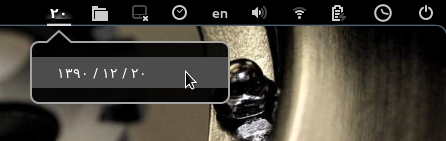
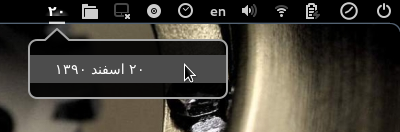
separate PersianDate class && add persian support for strings!

diff --git a/extension.js b/extension.js
@@ -4,7 +4,9 @@ const PopupMenu = imports.ui.popupMenu;
 const PanelMenu = imports.ui.panelMenu;
 const MainLoop = imports.mainloop;
 
-//const PersianDate = pcalendar.persian_calendar.PersianDate;
+const Extension = imports.ui.extensionSystem.extensions["PersianCalendar@oxygenws.com"];
+
+const PersianDate = Extension.PersianDate.PersianDate;
 
 function PopupMenuItem(label) {
     this._init(label);
@@ -16,175 +18,118 @@ PopupMenuItem.prototype = {
     _init: function(text) {
         PopupMenu.PopupBaseMenuItem.prototype._init.call(this);
 
-        this.label = new St.Label({ text: text });
-        this.label.set_direction(St.TextDirection.RTL);
+        this.label = new St.Label({ text: text, style: 'direction: rtl;' });
+        this.label.set_direction(St.TextDirection.RTL); // it should be RTL, but it is not RTL!!
         this.addActor(this.label);
     }
 };
 
-function PCalendar() {
+function PersianCalendar() {
     this._init();
 }
 
-PCalendar.prototype = {
+PersianCalendar.prototype = {
     __proto__: PanelMenu.Button.prototype,
 
     _init: function() {
         PanelMenu.Button.prototype._init.call(this, 0.0);
-        
-        var _date = new Date();
-        _date = PersianDate.gregorianToPersian(_date.getFullYear(),_date.getMonth()+1,_date.getDate());
-        var _day = _date[2] + '';
-        //_date = _date[0] + '/' + PersianDate.p_month_names[_date[1]-1] + '/' + _date[2];
-        _date = _date[0] + ' / ' + _date[1] + ' / ' + _date[2];
 
-        this.label = new St.Label({ text: toFaDigit(_day) });
-        this.label.set_direction(St.TextDirection.RTL);
+        this.label = new St.Label({ text: '', style: 'direction: rtl' });
+        this.label.set_direction(St.TextDirection.RTL); // it should be RTL, but it is not RTL!!
         this.actor.add_actor(this.label);
 
-        this._date = new PopupMenuItem(toFaDigit(_date));
+        this._date = new PopupMenuItem('');
         this.menu.addMenuItem(this._date);
     },
 
     _updateDate: function() {
 		var _date = new Date();
         _date = PersianDate.gregorianToPersian(_date.getFullYear(),_date.getMonth()+1,_date.getDate());
-        var _day = _date[2] + '';
-        _date = _date[0] + ' / ' + _date[1] + ' / ' + _date[2];
+        var _day = strFormat(_date[2] + '');
+        _date = strFormat(_date[2] + ' ' + PersianDate.p_month_names[_date[1]-1] + ' ' + _date[0]);
 
-		_indicator.label.set_text(toFaDigit(_day));
-		_indicator._date.label.set_text(toFaDigit(_date));
+		_indicator.label.set_text(_day);
+		_indicator._date.label.set_text(_date);
 		
 		return true;
 	}
 };
 
-function toFaDigit (digit) {
-	return digit.replace(/\d+/g, function(digit) {
-		var ret = '';
-
-		for (var i = 0, len = digit.length; i < len; i++) {
-			ret += String.fromCharCode(digit.charCodeAt(i) + 1728);
-		}
-
-		return ret;
-	});
+function strFormat(str, convert_numbers) {
+	if(!convert_numbers){
+		convert_numbers = true;
+	}
+	
+	var enums   = ['0', '1', '2', '3', '4', '5', '6', '7', '8', '9'];
+	var pnums   = ['۰', '۱', '۲', '۳', '۴', '۵', '۶', '۷', '۸', '۹'];
+	
+	var ncodes = ['\u06F0', '\u06F1', '\u06F2', '\u06F3', '\u06F4',
+	              '\u06F5', '\u06F6', '\u06F7', '\u06F8', '\u06F9'];
+				  
+	var chars = ['آ', 'ا', 'ب', 'پ', 'ت', 'ث', 'ج', 'چ', 'ح', 'خ', 'د',
+				 'ذ', 'ر', 'ز', 'ژ', 'س', 'ش', 'ص', 'ض', 'ط', 'ظ', 'ع',
+				 'غ', 'ف', 'ق', 'ک', 'گ', 'ل', 'م', 'ن', 'و', 'ه', 'ی'];
+	
+	var ccodes = ['\u0622', '\u0627', '\u0628', '\u067E', '\u062A',
+		 		  '\u062B', '\u062C', '\u0686', '\u062D', '\u062E',
+				  '\u062F', '\u0630', '\u0631', '\u0632', '\u0698',
+				  '\u0633', '\u0634', '\u0635', '\u0636', '\u0637',
+				  '\u0638', '\u0639', '\u063A', '\u0641', '\u0642',
+				  '\u06A9', '\u06AF', '\u0644', '\u0645', '\u0646',
+				  '\u0648', '\u0647', '\u0649'];
+				  
+	if(convert_numbers){
+		str = str_replace(enums, ncodes, str);
+		str = str_replace(pnums, ncodes, str);
+	}
+	
+	return str_replace(chars, ccodes, str);
 }
 
-let PersianDate = {
-    g_days_in_month: [31, 28, 31, 30, 31, 30, 31, 31, 30, 31, 30, 31],
-    p_days_in_month: [31, 31, 31, 31, 31, 31, 30, 30, 30, 30, 30, 29],
-    p_month_names: ['فروردین', 'اردیبهشت', 'خرداد', 'تیر', 'مرداد', 'شهریور', 'مهر', 'آبان', 'آذر', 'دی', 'بهمن', 'اسفند']
-};
-
-PersianDate.persianToGregorian = function(p_y, p_m, p_d)
-{
-    p_y = parseInt(p_y);
-    p_m = parseInt(p_m);
-    p_d = parseInt(p_d);
-    var py = p_y-979;
-    var pm = p_m-1;
-    var pd = p_d-1;
-
-    var p_day_no = 365*py + parseInt(py / 33)*8 + parseInt((py%33+3) / 4);
-    for (var i=0; i < pm; ++i) p_day_no += PersianDate.p_days_in_month[i];
-
-    p_day_no += pd;
-
-    var g_day_no = p_day_no+79;
-
-    var gy = 1600 + 400 * parseInt(g_day_no / 146097); /* 146097 = 365*400 + 400/4 - 400/100 + 400/400 */
-    g_day_no = g_day_no % 146097;
-
-    var leap = true;
-    if (g_day_no >= 36525) /* 36525 = 365*100 + 100/4 */
-    {
-        g_day_no--;
-        gy += 100*parseInt(g_day_no/  36524); /* 36524 = 365*100 + 100/4 - 100/100 */
-        g_day_no = g_day_no % 36524;
-
-        if (g_day_no >= 365)
-            g_day_no++;
-        else
-            leap = false;
+/* copied from http://phpjs.org/functions/str_replace */
+function str_replace (search, replace, subject, count) {
+    var i = 0,
+        j = 0,
+        temp = '',
+        repl = '',
+        sl = 0,
+        fl = 0,
+        f = [].concat(search),
+        r = [].concat(replace),
+        s = subject,
+        ra = Object.prototype.toString.call(r) === '[object Array]',
+        sa = Object.prototype.toString.call(s) === '[object Array]';
+    s = [].concat(s);
+    if (count) {
+        this.window[count] = 0;
     }
 
-    gy += 4*parseInt(g_day_no/ 1461); /* 1461 = 365*4 + 4/4 */
-    g_day_no %= 1461;
-
-    if (g_day_no >= 366) {
-        leap = false;
-
-        g_day_no--;
-        gy += parseInt(g_day_no/ 365);
-        g_day_no = g_day_no % 365;
+    for (i = 0, sl = s.length; i < sl; i++) {
+        if (s[i] === '') {
+            continue;
+        }
+        for (j = 0, fl = f.length; j < fl; j++) {
+            temp = s[i] + '';
+            repl = ra ? (r[j] !== undefined ? r[j] : '') : r[0];
+            s[i] = (temp).split(f[j]).join(repl);
+            if (count && s[i] !== temp) {
+                this.window[count] += (temp.length - s[i].length) / f[j].length;
+            }
+        }
     }
-
-    for (var i = 0; g_day_no >= PersianDate.g_days_in_month[i] + (i == 1 && leap); i++)
-        g_day_no -= PersianDate.g_days_in_month[i] + (i == 1 && leap);
-    var gm = i+1;
-    var gd = g_day_no+1;
-
-    return [gy, gm, gd];
-}
-
-PersianDate.checkDate = function(p_y, p_m, p_d)
-{
-    return !(p_y < 0 || p_y > 32767 || p_m < 1 || p_m > 12 || p_d < 1 || p_d >
-        (PersianDate.p_days_in_month[p_m-1] + (p_m == 12 && !((p_y-979)%33%4))));
-}
-
-PersianDate.gregorianToPersian = function(g_y, g_m, g_d)
-{
-    g_y = parseInt(g_y);
-    g_m = parseInt(g_m);
-    g_d = parseInt(g_d);
-    var gy = g_y-1600;
-    var gm = g_m-1;
-    var gd = g_d-1;
-
-    var g_day_no = 365*gy+parseInt((gy+3) / 4)-parseInt((gy+99)/100)+parseInt((gy+399)/400);
-
-    for (var i=0; i < gm; ++i)
-    g_day_no += PersianDate.g_days_in_month[i];
-    if (gm>1 && ((gy%4==0 && gy%100!=0) || (gy%400==0)))
-    /* leap and after Feb */
-    ++g_day_no;
-    g_day_no += gd;
-
-    var p_day_no = g_day_no-79;
-
-    var p_np = parseInt(p_day_no/ 12053);
-    p_day_no %= 12053;
-
-    var py = 979+33*p_np+4*parseInt(p_day_no/1461);
-
-    p_day_no %= 1461;
-
-    if (p_day_no >= 366) {
-        py += parseInt((p_day_no-1)/ 365);
-        p_day_no = (p_day_no-1)%365;
-    }
-
-    for (var i = 0; i < 11 && p_day_no >= PersianDate.p_days_in_month[i]; ++i) {
-        p_day_no -= PersianDate.p_days_in_month[i];
-    }
-    var pm = i+1;
-    var pd = p_day_no+1;
-
-
-    return [py, pm, pd];
-}
-
-function init(metadata) {
+    return sa ? s : s[0];
 }
 
 let _indicator;
 let _timer;
 
+function init(metadata) {
+}
+
 function enable() {
-  _indicator = new PCalendar;
+  _indicator = new PersianCalendar;
   Main.panel.addToStatusArea('persian_calendar', _indicator);
+  _indicator._updateDate();
   _timer = MainLoop.timeout_add(300000, _indicator._updateDate);
 }
 

diff --git a/PersianDate.js b/PersianDate.js
@@ -1,0 +1,108 @@
+/* 
+ * Based on a code from http://farhadi.ir
+ */
+ 
+ let PersianDate = {
+    g_days_in_month: [31, 28, 31, 30, 31, 30, 31, 31, 30, 31, 30, 31],
+    p_days_in_month: [31, 31, 31, 31, 31, 31, 30, 30, 30, 30, 30, 29],
+    p_month_names: ['فروردین', 'اردیبهشت', 'خرداد', 'تیر', 'مرداد', 'شهریور', 'مهر', 'آبان', 'آذر', 'دی', 'بهمن', 'اسفند']
+};
+
+PersianDate.persianToGregorian = function(p_y, p_m, p_d)
+{
+    p_y = parseInt(p_y);
+    p_m = parseInt(p_m);
+    p_d = parseInt(p_d);
+    var py = p_y-979;
+    var pm = p_m-1;
+    var pd = p_d-1;
+
+    var p_day_no = 365*py + parseInt(py / 33)*8 + parseInt((py%33+3) / 4);
+    for (var i=0; i < pm; ++i) p_day_no += PersianDate.p_days_in_month[i];
+
+    p_day_no += pd;
+
+    var g_day_no = p_day_no+79;
+
+    var gy = 1600 + 400 * parseInt(g_day_no / 146097); /* 146097 = 365*400 + 400/4 - 400/100 + 400/400 */
+    g_day_no = g_day_no % 146097;
+
+    var leap = true;
+    if (g_day_no >= 36525) /* 36525 = 365*100 + 100/4 */
+    {
+        g_day_no--;
+        gy += 100*parseInt(g_day_no/  36524); /* 36524 = 365*100 + 100/4 - 100/100 */
+        g_day_no = g_day_no % 36524;
+
+        if (g_day_no >= 365)
+            g_day_no++;
+        else
+            leap = false;
+    }
+
+    gy += 4*parseInt(g_day_no/ 1461); /* 1461 = 365*4 + 4/4 */
+    g_day_no %= 1461;
+
+    if (g_day_no >= 366) {
+        leap = false;
+
+        g_day_no--;
+        gy += parseInt(g_day_no/ 365);
+        g_day_no = g_day_no % 365;
+    }
+
+    for (var i = 0; g_day_no >= PersianDate.g_days_in_month[i] + (i == 1 && leap); i++)
+        g_day_no -= PersianDate.g_days_in_month[i] + (i == 1 && leap);
+    var gm = i+1;
+    var gd = g_day_no+1;
+
+    return [gy, gm, gd];
+}
+
+PersianDate.checkDate = function(p_y, p_m, p_d)
+{
+    return !(p_y < 0 || p_y > 32767 || p_m < 1 || p_m > 12 || p_d < 1 || p_d >
+        (PersianDate.p_days_in_month[p_m-1] + (p_m == 12 && !((p_y-979)%33%4))));
+}
+
+PersianDate.gregorianToPersian = function(g_y, g_m, g_d)
+{
+    g_y = parseInt(g_y);
+    g_m = parseInt(g_m);
+    g_d = parseInt(g_d);
+    var gy = g_y-1600;
+    var gm = g_m-1;
+    var gd = g_d-1;
+
+    var g_day_no = 365*gy+parseInt((gy+3) / 4)-parseInt((gy+99)/100)+parseInt((gy+399)/400);
+
+    for (var i=0; i < gm; ++i)
+    g_day_no += PersianDate.g_days_in_month[i];
+    if (gm>1 && ((gy%4==0 && gy%100!=0) || (gy%400==0)))
+    /* leap and after Feb */
+    ++g_day_no;
+    g_day_no += gd;
+
+    var p_day_no = g_day_no-79;
+
+    var p_np = parseInt(p_day_no/ 12053);
+    p_day_no %= 12053;
+
+    var py = 979+33*p_np+4*parseInt(p_day_no/1461);
+
+    p_day_no %= 1461;
+
+    if (p_day_no >= 366) {
+        py += parseInt((p_day_no-1)/ 365);
+        p_day_no = (p_day_no-1)%365;
+    }
+
+    for (var i = 0; i < 11 && p_day_no >= PersianDate.p_days_in_month[i]; ++i) {
+        p_day_no -= PersianDate.p_days_in_month[i];
+    }
+    var pm = i+1;
+    var pd = p_day_no+1;
+
+
+    return [py, pm, pd];
+}
